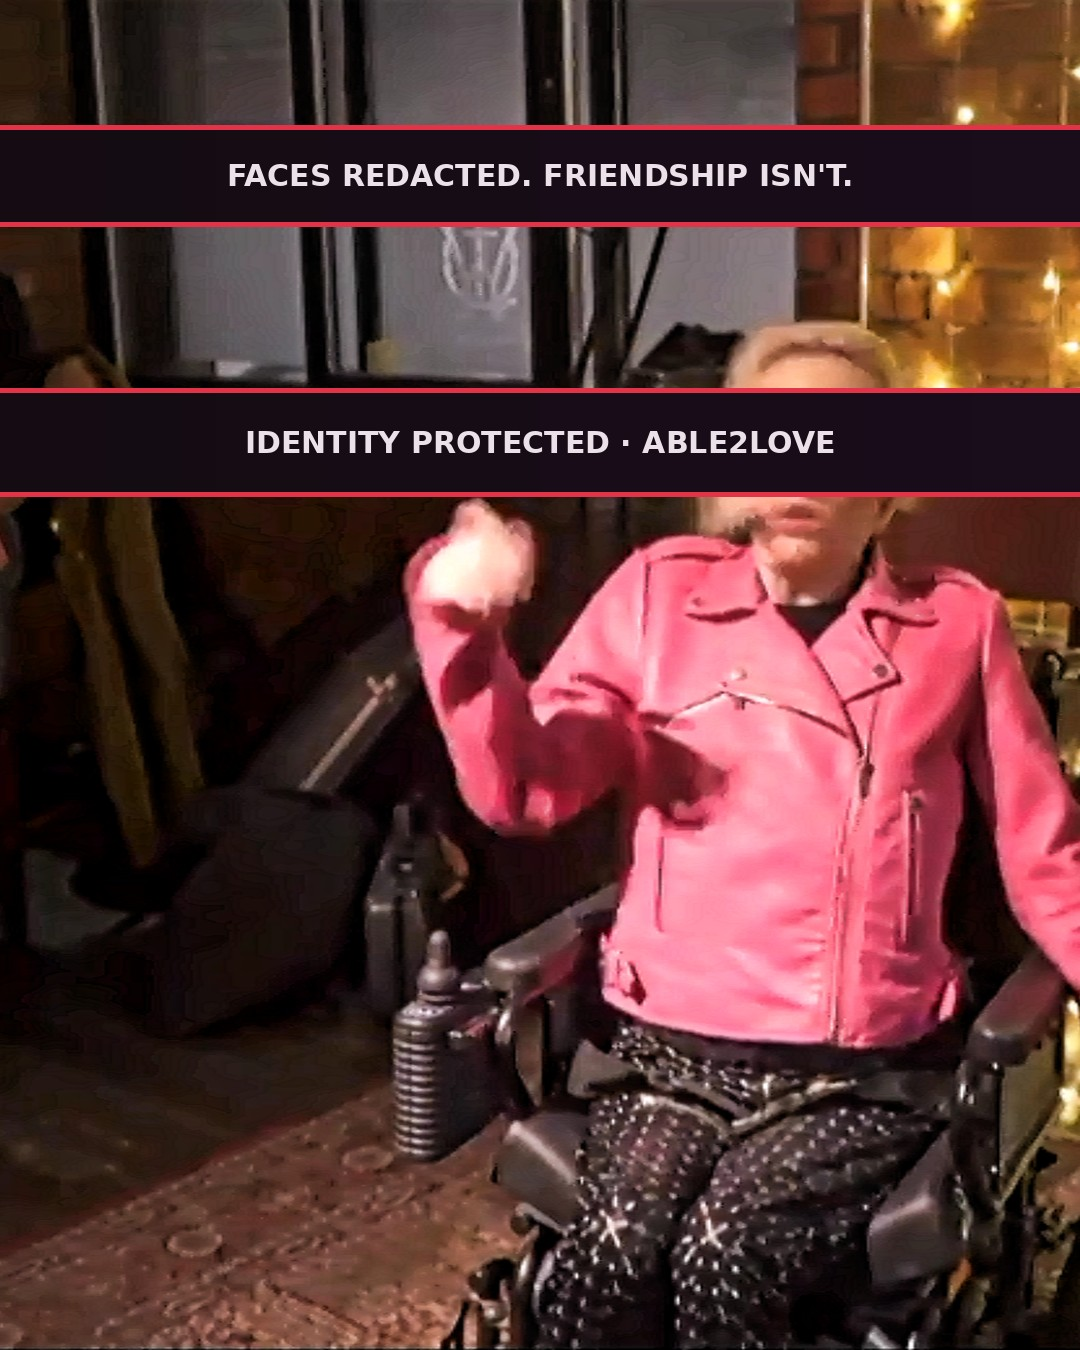
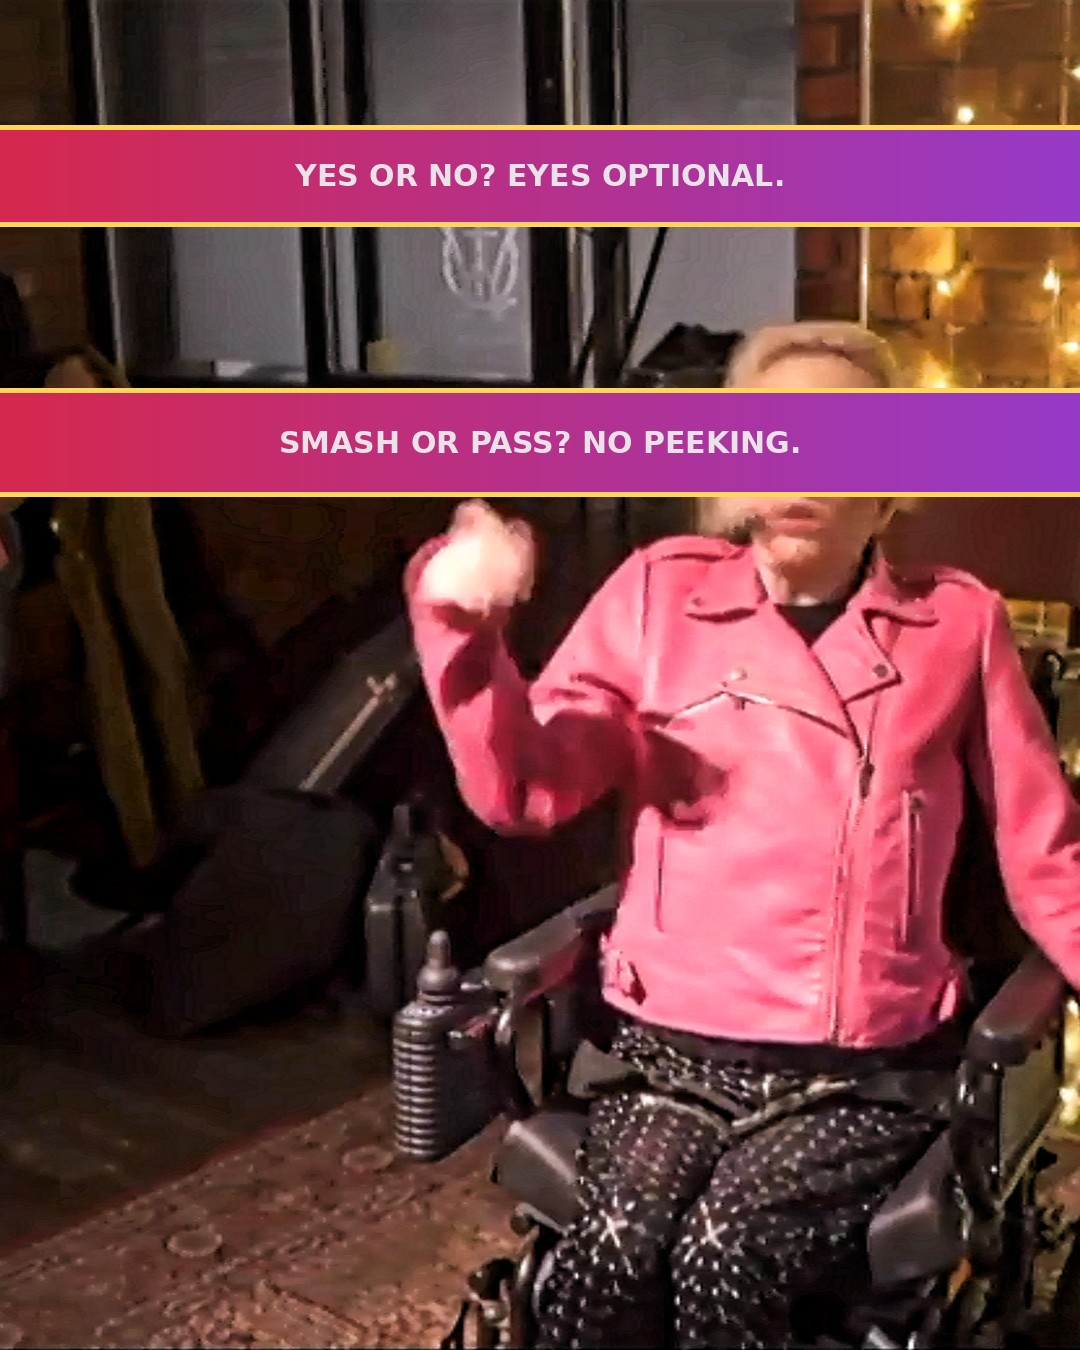
Brand the baked bars: gradient + smash-or-pass copy, not censor blocks (#107)
Brogan: "IDENTITY HIDDEN" reads clinical, not marketable. Worded bars now get
the brand look — red-to-purple gradient with gold edges (matching the app and
the reveal carousel palette) — and playful copy in the format the account
runs on: "SMASH OR PASS? NO PEEKING.", "YES OR NO? EYES OPTIONAL.",
"ABLE2LOVE ♥ FIRST OF ITS KIND". Wordless bars on croppable reveal bases stay
near-black so render-time copy pops.

Claude-Session: https://claude.ai/code/session_01KNuAg8XUbu7HC4tB6Wszqx

Changed region(s): [[0.0, 0.28, 1.0, 0.3733], [0.0, 0.0933, 1.0, 0.1867]]

diff --git a/automation/reveal/prepare_library.py b/automation/reveal/prepare_library.py
@@ -101,20 +101,24 @@ FONT_PATH = "/usr/share/fonts/truetype/dejavu/DejaVuSans-Bold.ttf"
 
 
 def bake_strip(img, y0, y1, text=None):
-    """Opaque near-black strip with brand-red edges; optionally bakes WORDS
-    into the bar (Brogan: bars must never be blank). Returns (y0,y1) clamped."""
+    """Bar over the eyes. Worded bars get the BRAND look (red->purple gradient,
+    like the app), not a black censor block; wordless bars (reveal bases that
+    receive copy at render time) stay near-black so the render copy pops.
+    Returns (y0,y1) clamped."""
     y0, y1 = max(0, y0), min(H, y1)
     band = Image.new("RGB", (W, y1 - y0))
     px = band.load()
     for x in range(W):
         t = x / W
-        col = (int(20 + 6 * t), 12, int(18 + 10 * t))
+        col = ((int(214 + (150 - 214) * t), int(40 + (58 - 40) * t), int(78 + (200 - 78) * t))
+               if text else (int(20 + 6 * t), 12, int(18 + 10 * t)))
         for yy in range(y1 - y0):
             px[x, yy] = col
     img.paste(band, (0, y0))
     d = ImageDraw.Draw(img)
-    d.rectangle((0, y0, W, y0 + 4), fill=(226, 51, 73))
-    d.rectangle((0, y1 - 4, W, y1), fill=(226, 51, 73))
+    edge = (255, 214, 90) if text else (226, 51, 73)
+    d.rectangle((0, y0, W, y0 + 4), fill=edge)
+    d.rectangle((0, y1 - 4, W, y1), fill=edge)
     if text and y1 - y0 >= 34:
         f = ImageFont.truetype(FONT_PATH, min(30, y1 - y0 - 16))
         while d.textlength(text, font=f) > W - 70 and f.size > 14:
@@ -127,10 +131,11 @@ def bake_strip(img, y0, y1, text=None):
 # Words baked into bars. Index 0 lands on Brogan's band in "friends" photos;
 # later entries land on the other (consenting, barred) people's bands.
 BAR_WORDS = [
-    "IDENTITY PROTECTED · ABLE2LOVE",
-    "FACES REDACTED. FRIENDSHIP ISN'T.",
-    "EVERYONE'S IN. NO ONE'S EXPOSED.",
-    "GOOD NIGHTS DON'T NEED NAMES.",
+    "SMASH OR PASS? NO PEEKING.",
+    "YES OR NO? EYES OPTIONAL.",
+    "ABLE2LOVE ♥ FIRST OF ITS KIND",
+    "10/10 NIGHT. NAMES CLASSIFIED.",
+    "WOULD YOU? DON'T OVERTHINK IT.",
 ]
 
 
